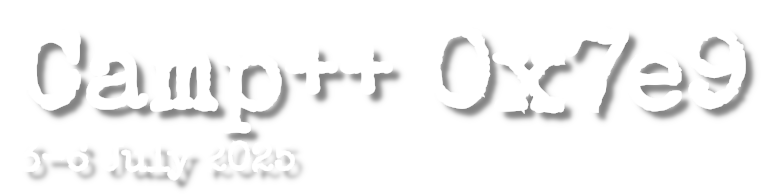
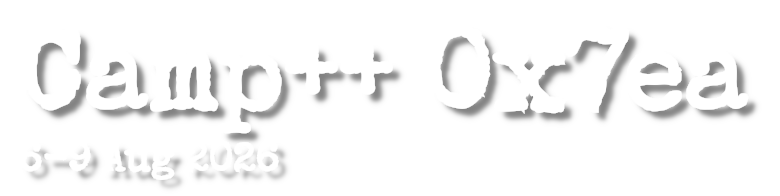
camp++ 2026 (#11)

Changed region(s): [[0.0923, 0.7653, 0.4, 0.9796], [0.8923, 0.1837, 0.9846, 0.6122], [0.0308, 0.7653, 0.0615, 0.8571]]

diff --git a/templates/howto.html b/templates/howto.html
@@ -18,7 +18,7 @@
 	<a href="https://en.wikipedia.org/wiki/M1_motorway_(Hungary)">M1 motorway</a> is recommended from Budapest,
 	Bratislava, and Vienna as well. You have to take exit no. 67 towards Tata and turn left on Oroszlányi u. after a Shell fuel station on the left.
 	You have to purchase a vignette for M1, the cheapest option is 10 days for vehicles under 3.5t which costs
-	6620 HUF (about 17 €).
+	6900 HUF (about 17 €).
 	Make sure to buy the vignette of the right category, see the <a href="https://nemzetiutdij.hu/en/e-vignette/tolls/e-vignette-rates">offical website</a> for details.
 	Motorway vignettes are virtual, they can be bought on-line with credit card payment on numerous sites, the <a href="https://ematrica.nemzetiutdij.hu/">official webshop of the National Toll Payment Services PLC</a> is the cheapest,
 	all the others put a service charge on top of the price.
@@ -41,20 +41,20 @@
 </p>
 <p>
 	Train tickets cost 1860 HUF
-	for normal, 2555 HUF for express trains. The timetable can be seen and tickets can be booked
-	<a href="https://jegy.mav.hu/menetrend/viszonylati?i=005510009&e=005501164&d=2025-07-02T22:00:00.000Z">on-line at MÁV-Start</a>, which is 10% cheaper than buying them in person.
+	for normal, 2555 HUF for express trains. Tickets can be booked
+	<a href="https://jegy.mav.hu/">on-line at MÁV-Start</a>, which is 10% cheaper than buying them in person.
 </p>
 <p>
 	<strong>By train (from Vienna/Munich):</strong>
 	International guests want to get to Munich or to Vienna, where the Railjet departs every 2 hours, these are equipped
 	with power plugs and also Internet in Austria. You need to get off the Railjet in Győr and take the last stint with a 
 	train that stops in Tata. Trains run from Győr at least every hour, tickets costs less than 3 €, which you can order
-	<a href="https://jegy.mav.hu/menetrend/viszonylati?i=005501289&e=005501164&d=2025-07-02T22:00:00.000Z">on-line at MÁV-Start</a>.
+	<a href="https://jegy.mav.hu/">on-line at MÁV-Start</a>.
 </p>
 <p>
 	<strong>By train (from Graz):</strong>
-	There are two direct trains (IC 311 and 313) from Graz to Tata every day, ticket costs 23 €, which you can order
-	<a href="https://jegy.mav.hu/menetrend/viszonylati?i=008103171&e=005501164&d=2025-07-03T06:00:00.000Z">on-line at MÁV-Start</a>.
+	There are two direct trains (IC 251 and 255) from Graz to Tata every day, ticket costs 23 €, which you can order
+	<a href="https://jegy.mav.hu/">on-line at MÁV-Start</a>.
 <p>
 <p>
 	<strong>Here's how to get from the train station to the campsite:</strong>

diff --git a/templates/cfp.html b/templates/cfp.html
@@ -5,11 +5,11 @@
 <table>
 	<tr>
 		<th>Submission deadline:</th>
-		<td>2025-06-03</td>
+		<td>TBA</td>
 	</tr>
 	<tr>
 		<th>Notification of acceptance:</th>
-		<td>2025-06-10</td>
+		<td>TBA</td>
 	</tr>
 	<tr>
 		<th>Presentation Language:</th>
@@ -17,7 +17,7 @@
 	</tr>
 	<tr>
 		<th>Submission system:</th>
-		<td><a href="//pretalx.hsbp.org/camppp7e9/submit">Camp++ Pretalx</a></td>
+		<td><a href="//pretalx.hsbp.org/camppp7ea/submit">Camp++ Pretalx (coming soon)</a></td>
 	</tr>
 	<tr>
 		<th>Topics:</th>
@@ -49,5 +49,5 @@ Audio and video recordings of the lectures will be published online in various f
 Camp++ is a non-commercial event, where neither the organizers nor the speakers are being paid.
 
 <h3>Online submissions only</h3>
-All submissions of lectures and workshops have to be submitted to <a href="//pretalx.hsbp.org/camppp7e9/submit">our CfP system</a>.
+All submissions of lectures and workshops have to be submitted to <a href="//pretalx.hsbp.org/camppp7ea/submit">our CfP system (coming soon)</a>.
 {% endblock %}

diff --git a/templates/index.html b/templates/index.html
@@ -19,7 +19,7 @@
 		<div class="header"><img src="static/h1.png"></div>
 		<div class="wrapper">
 			<div class="content">
-				<h1>Camp++, the thirteenth H.A.C.K. camp</h1>
+				<h1>Camp++, the fourteenth H.A.C.K. camp</h1>
 				<ul id="menu">
 					{% for page in pages %}
 					<li>
@@ -35,9 +35,9 @@
 				<div id="datelocation">
 					<h2>Date</h2>
 					The camp will start on
-					Thursday <strong>3rd July 2025</strong> and will
-					end on Sunday <strong>6th July 2025</strong>.
-					<a href="tickets.html">Register your ticket now!</a>
+					Thursday <strong>6th August 2026</strong> and will
+					end on Sunday <strong>9th August 2026</strong>.
+					<a href="tickets.html">Register your ticket! (coming soon)</a>
 					<h2>Location</h2>
 					<a href="https://geohack.toolforge.org/geohack.php?params=47_40_5_N_18_18_36_E_type:landmark" target="_blank">Fényes Camping, Tata, Hungary</a>
 					keeping the location from last year with its own lake.

diff --git a/templates/tickets.html b/templates/tickets.html
@@ -3,7 +3,7 @@
 <h2>Tickets</h2>
 <p>Tickets can be registered
 
-<a href="https://ticket.hsbp.org/camppp7e9">in our ticketing system</a>
+<a href="https://ticket.hsbp.org/camppp7ea">in our ticketing system</a>
 and are <strong>required to participate</strong> at the event &ndash; even
 for speakers and/or organizers. <strong>Registration is free</strong> and
 submitting personal information	is not required. Payment is done on your
